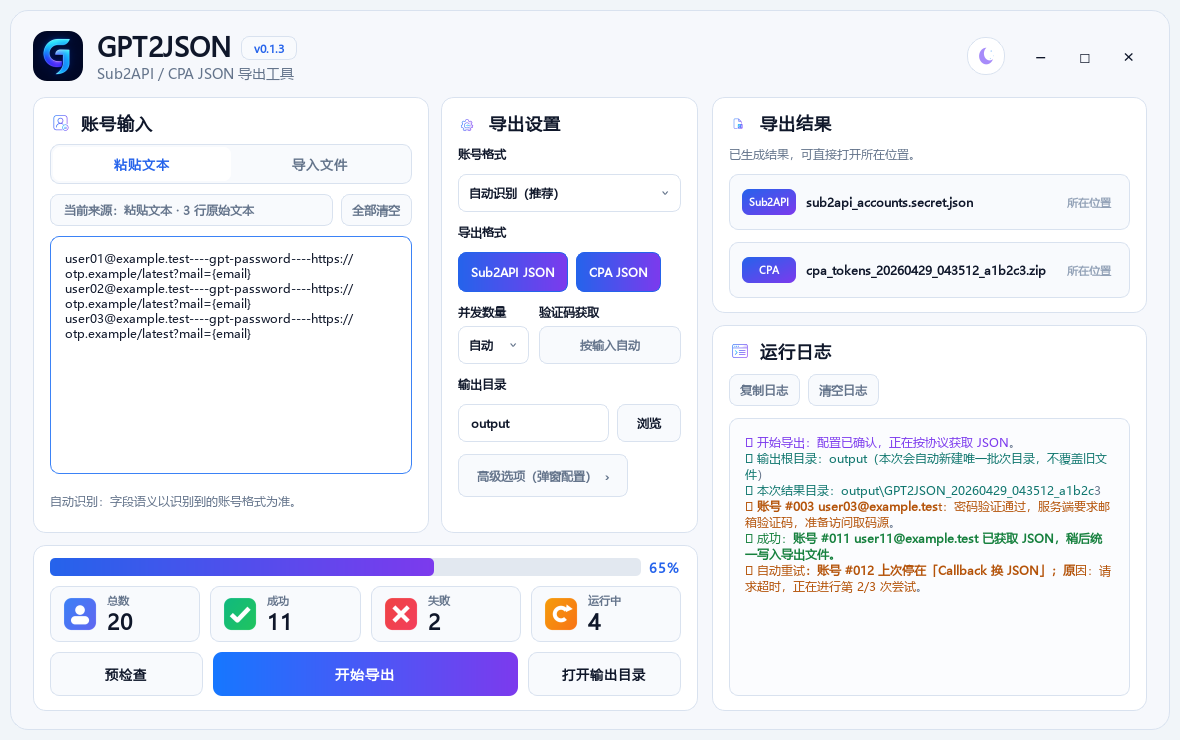
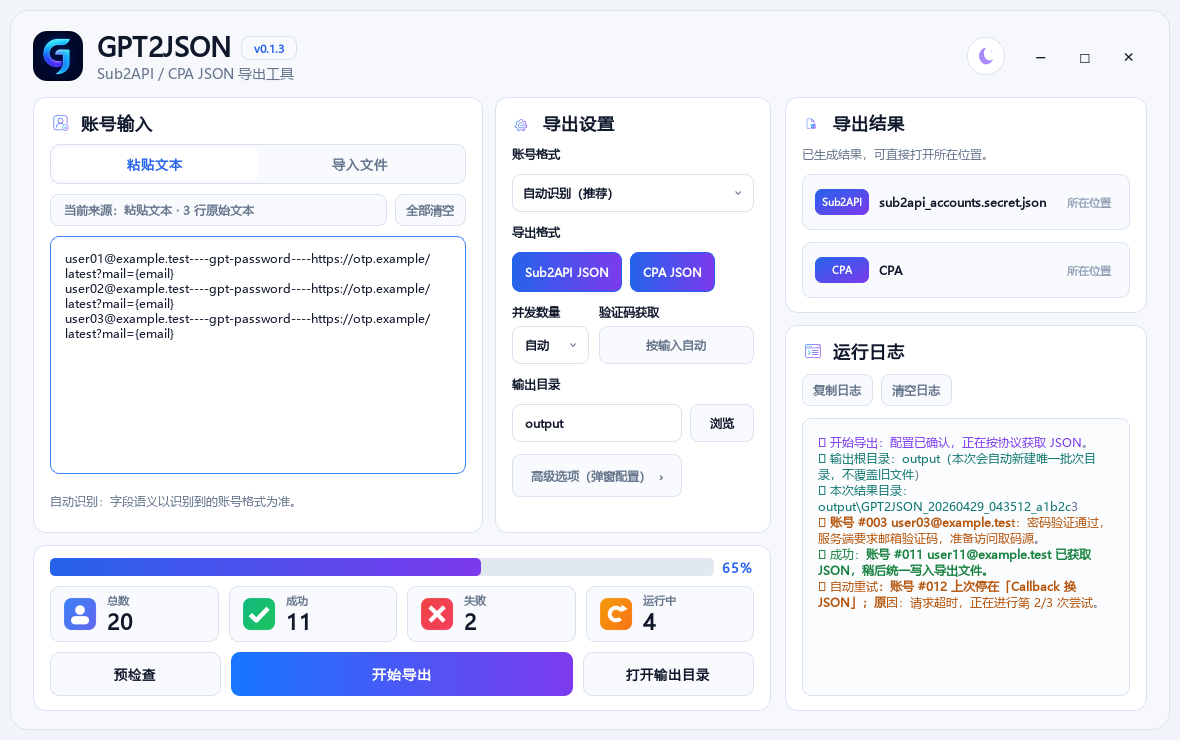
Export CPA as folder only

diff --git a/tests/test_engine.py b/tests/test_engine.py
@@ -1,6 +1,5 @@
 import json
 import threading
-import zipfile
 from pathlib import Path
 
 import pytest
@@ -220,11 +219,8 @@ def test_run_export_writes_cpa_and_sub2api(tmp_path: Path):
     cpa_files = sorted((batch_dir / "CPA").glob("*.json"))
     assert len(cpa_files) == 2
     assert {item.name for item in cpa_files} == {"ok1@example.com.json", "ok2@example.com.json"}
-    assert summary["cpa_zip"]
-    cpa_zip = Path(summary["cpa_zip"])
-    assert cpa_zip.exists()
-    with zipfile.ZipFile(cpa_zip) as archive:
-        assert sorted(archive.namelist()) == ["ok1@example.com.json", "ok2@example.com.json"]
+    assert summary["cpa_zip"] == ""
+    assert not list(batch_dir.glob("cpa_tokens_*.zip"))
     assert json.loads(cpa_files[0].read_text(encoding="utf-8"))["access_token"] == "a.b.c"
     assert json.loads(cpa_files[0].read_text(encoding="utf-8"))["type"] == "codex"
     sub_payload = json.loads((batch_dir / "sub2api_accounts.secret.json").read_text(encoding="utf-8"))
@@ -265,11 +261,11 @@ def test_run_export_cpa_only(tmp_path: Path):
     assert summary["sub2api_export"] == ""
     assert summary["cpa_dir"]
     assert summary["cpa_manifest"]
-    assert summary["cpa_zip"]
+    assert summary["cpa_zip"] == ""
     batch_dir = batch_dir_from(summary)
     assert len(list((batch_dir / "CPA").glob("*.json"))) == 2
     assert (batch_dir / "cpa_manifest.json").exists()
-    assert Path(summary["cpa_zip"]).exists()
+    assert not list(batch_dir.glob("cpa_tokens_*.zip"))
     assert not (batch_dir / "sub2api_accounts.secret.json").exists()
 
 
@@ -528,8 +524,9 @@ def test_run_export_does_not_overwrite_duplicate_cpa_account_filenames(tmp_path:
 
     cpa_files = sorted((batch_dir_from(summary) / "CPA").glob("*.json"))
     assert [item.name for item in cpa_files] == ["same@example.com.json", "same@example.com_002.json"]
-    with zipfile.ZipFile(Path(summary["cpa_zip"])) as archive:
-        assert sorted(archive.namelist()) == ["same@example.com.json", "same@example.com_002.json"]
+    manifest = json.loads((batch_dir_from(summary) / "cpa_manifest.json").read_text(encoding="utf-8"))
+    assert [item["file"] for item in manifest["files"]] == ["CPA/same@example.com.json", "CPA/same@example.com_002.json"]
+    assert "zip" not in manifest
 
 
 def test_run_export_keeps_previous_artifacts_when_input_load_fails(tmp_path: Path):

diff --git a/gpt2json/gui.py b/gpt2json/gui.py
@@ -1395,7 +1395,7 @@ class MainWindow(QMainWindow):
         self.output_hint_label.setWordWrap(True)
         output_layout.addWidget(self.output_hint_label)
         self.sub2api_row = FileOutputRow("sub2api_accounts.secret.json", "Sub2API")
-        self.cpa_row = FileOutputRow("cpa_tokens_*.zip + CPA/", "CPA")
+        self.cpa_row = FileOutputRow("CPA/", "CPA")
         self.sub2api_row.setVisible(False)
         self.cpa_row.setVisible(False)
         output_layout.addWidget(self.sub2api_row)
@@ -3085,14 +3085,13 @@ class MainWindow(QMainWindow):
         self.running_stat.set_value(0)
         self._update_progress()
         sub2api_path = str(summary.get("sub2api_export") or "")
-        cpa_zip = str(summary.get("cpa_zip") or "")
         cpa_dir = str(summary.get("cpa_dir") or "")
         result_dir = str(summary.get("out_dir") or "")
         failure_report = str(summary.get("failure_report") or "")
         failure_categories = summary.get("failure_categories") if isinstance(summary.get("failure_categories"), dict) else {}
         retry_count = int(summary.get("retry_count") or 0)
         auto_rerun_count = int(summary.get("auto_rerun_count") or 0)
-        cpa_path = cpa_zip or cpa_dir or str(summary.get("cpa_manifest") or "")
+        cpa_path = cpa_dir or str(summary.get("cpa_manifest") or "")
         self.sub2api_row.set_path(sub2api_path)
         self.cpa_row.set_path(cpa_path)
         if result_dir:
@@ -3119,8 +3118,6 @@ class MainWindow(QMainWindow):
         if result_dir:
             self.append_log(f"🗂 本次结果目录：{result_dir}")
         if cpa_path:
-            if cpa_zip:
-                self.append_log(f"📘 CPA ZIP 输出：{cpa_zip}")
             if cpa_dir:
                 self.append_log(f"📚 CPA 单账号 JSON 目录：{cpa_dir}")
         if failure_report:

diff --git a/gpt2json/engine.py b/gpt2json/engine.py
@@ -4,7 +4,6 @@ import json
 import secrets
 import threading
 import time
-import zipfile
 from collections.abc import Callable
 from concurrent.futures import ThreadPoolExecutor, as_completed
 from dataclasses import dataclass
@@ -525,12 +524,7 @@ def run_export(
             sub_account = _build_sub_account(token_payload, pool=config.pool, index=index)
             sub_accounts.append(sub_account)
 
-    cpa_zip_path = out_dir / f"cpa_tokens_{run_stamp}.zip"
     if successes and export_cpa:
-        with zipfile.ZipFile(cpa_zip_path, "w", compression=zipfile.ZIP_DEFLATED) as archive:
-            for item in cpa_files:
-                file_path = out_dir / str(item["file"])
-                archive.write(file_path, arcname=file_path.name)
         write_json(
             out_dir / "cpa_manifest.json",
             {
@@ -538,7 +532,6 @@ def run_export(
                 "count": len(successes),
                 "format": "cpa-per-account-json",
                 "directory": "CPA",
-                "zip": cpa_zip_path.name,
                 "files": cpa_files,
             },
         )
@@ -561,7 +554,7 @@ def run_export(
     summary["success_emails"] = sorted(str(item.get("email") or "") for item in successes if str(item.get("email") or "").strip())
     summary["sub2api_export"] = str(out_dir / "sub2api_accounts.secret.json") if successes and export_sub2api else ""
     summary["cpa_dir"] = str(cpa_dir) if successes and export_cpa else ""
-    summary["cpa_zip"] = str(cpa_zip_path) if successes and export_cpa else ""
+    summary["cpa_zip"] = ""
     summary["cpa_manifest"] = str(out_dir / "cpa_manifest.json") if successes and export_cpa else ""
     summary["retry_count"] = retry_count
     summary["auto_rerun_count"] = auto_rerun_count

diff --git a/scripts/generate_docs_assets.py b/scripts/generate_docs_assets.py
@@ -241,7 +241,7 @@ def capture_gui_previews() -> None:
         window.running_stat.set_value(4)
         window._update_progress()
         window.sub2api_row.set_path(r"output\GPT2JSON_20260429_043512_a1b2c3\sub2api_accounts.secret.json")
-        window.cpa_row.set_path(r"output\GPT2JSON_20260429_043512_a1b2c3\cpa_tokens_20260429_043512_a1b2c3.zip")
+        window.cpa_row.set_path(r"output\GPT2JSON_20260429_043512_a1b2c3\CPA")
         window._refresh_output_format_state()
         window.log_edit.setPlainText(
             "🚀 开始导出：配置已确认，正在按协议获取 JSON。\n"

diff --git a/README.md b/README.md
@@ -48,7 +48,7 @@ flowchart LR
   D -- "少数跳验证" --> E["免登录取码源 / OTP backend"]
   E --> F
   F --> G["Sub2API JSON"]
-  F --> H["CPA 单账号 JSON + ZIP"]
+  F --> H["CPA 单账号 JSON 文件夹"]
   G --> I["打开本次结果目录"]
   H --> I
 ```
@@ -63,7 +63,7 @@ flowchart LR
 | 免登录取码 URL | ✅ 已实现 | 支持 JSON / 文本 / HTML 中自动提取验证码或发现接口。 |
 | 并发与重试 | ✅ 已实现 | 默认自动并发；可恢复失败会自动重试，并追加自动重跑补救。 |
 | Sub2API 导出 | ✅ 已实现 | 生成 `sub2api_accounts.secret.json`。 |
-| CPA 导出 | ✅ 已实现 | 每个账号一个 JSON，同时生成 ZIP 包和 manifest。 |
+| CPA 导出 | ✅ 已实现 | 每个账号一个 JSON，统一放在 `CPA/` 文件夹，并生成 manifest。 |
 | 取码协议扩展 | 🧭 规划中 | IMAP / Graph / JMAP / POP3 / Provider API。 |
 
 > GPT2JSON 只负责生成 JSON 文件，不会直接写入你的 Sub2API 管理后台。这样更安全，也更适合批量交付前检查。
@@ -143,7 +143,6 @@ output/
    ├─ CPA/
    │  ├─ user01@example.test.json
    │  └─ user02@example.test.json
-   ├─ cpa_tokens_20260429_043512_a1b2c3.zip
    ├─ cpa_manifest.json
    ├─ failure_report.safe.json
    ├─ progress.json
@@ -156,8 +155,7 @@ output/
 | --- | --- |
 | `sub2api_accounts.secret.json` | Sub2API 导入用总包。 |
 | `CPA/<account-email>.json` | CPA 单账号 token 文件；一个账号一个 JSON。 |
-| `cpa_tokens_<批次ID>.zip` | CPA 多账号打包文件，便于整体搬运。 |
-| `cpa_manifest.json` | CPA 文件索引，只记录文件列表和脱敏元数据。 |
+| `cpa_manifest.json` | CPA 文件夹索引，只记录文件列表和脱敏元数据。 |
 | `failure_report.safe.json` | 失败诊断报告，不包含原始密码、token 或取码源明文。 |
 | `summary.json` | 本次统计；包含输出根目录、结果目录和批次 ID。 |
 | `results.safe.jsonl` | 脱敏过程记录，方便定位账号阶段。 |

diff --git a/docs/troubleshooting.md b/docs/troubleshooting.md
@@ -50,7 +50,7 @@ GUI 完成后点击“打开输出目录”会优先打开本次结果目录。C
 
 ## CPA 文件是不是一个账号一个 JSON
 
-是。`CPA/` 目录中一个账号一个 JSON，同时会生成 `cpa_tokens_<批次ID>.zip` 方便整体搬运。
+是。`CPA/` 目录中一个账号一个 JSON；新版不再额外打包 ZIP，直接使用这个文件夹更方便。
 
 ## 软件是否写注册表
 

diff --git a/CHANGELOG.md b/CHANGELOG.md
@@ -11,6 +11,7 @@
 ### Changed
 
 - GUI 高级选项新增“自动重跑补救次数”，并在日志中区分普通自动重试和额外自动重跑。
+- CPA 导出改为只保留 `CPA/` 单账号 JSON 文件夹，不再额外生成 `cpa_tokens_*.zip`。
 
 ### Planned
 
